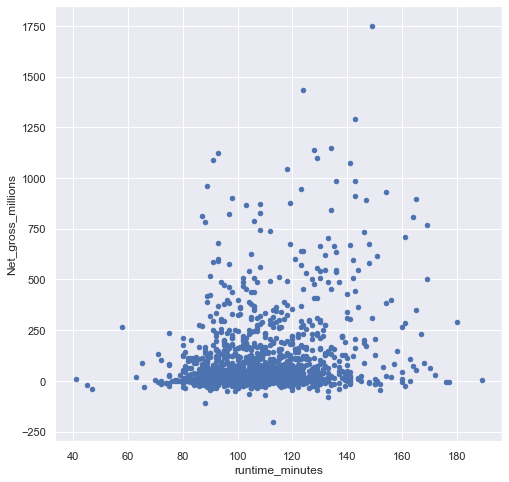
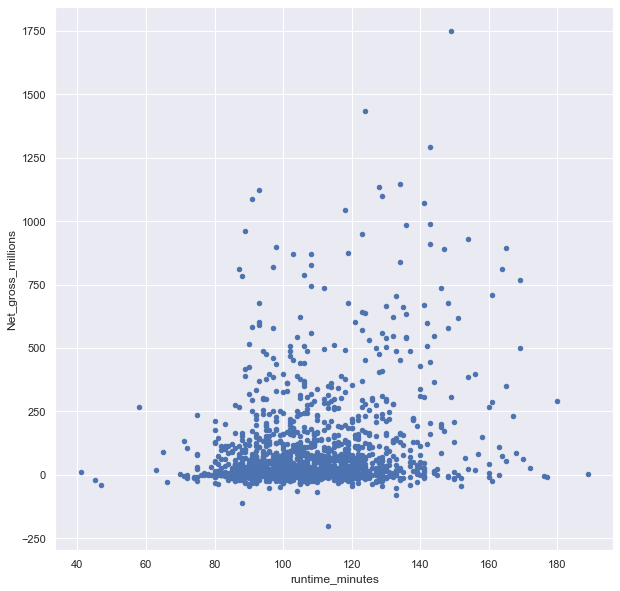
Updated Readme Scatter plot visual

diff --git a/README_draft.md b/README_draft.md
@@ -33,7 +33,7 @@ This project uses descriptive analysis, including explorations correlations betw
 
 - The movie's run time has less of an effect on total net gross earnings. The overall average run time was 107 minutes but when looking at both the top 20 and top 100 highest net grossing films run time averaged between 120-130 minutes. 
 
-![Runtime](Images/top_20_runtime.png) 
+![Runtime](Images/runtime_scatter.png) 
 
 - The average top net grossing genres are Animation, Adventure, and Sci-Fi, however the genres that produced the highest max net gross were Sci-Fi, Action, and Adventure. 
 
